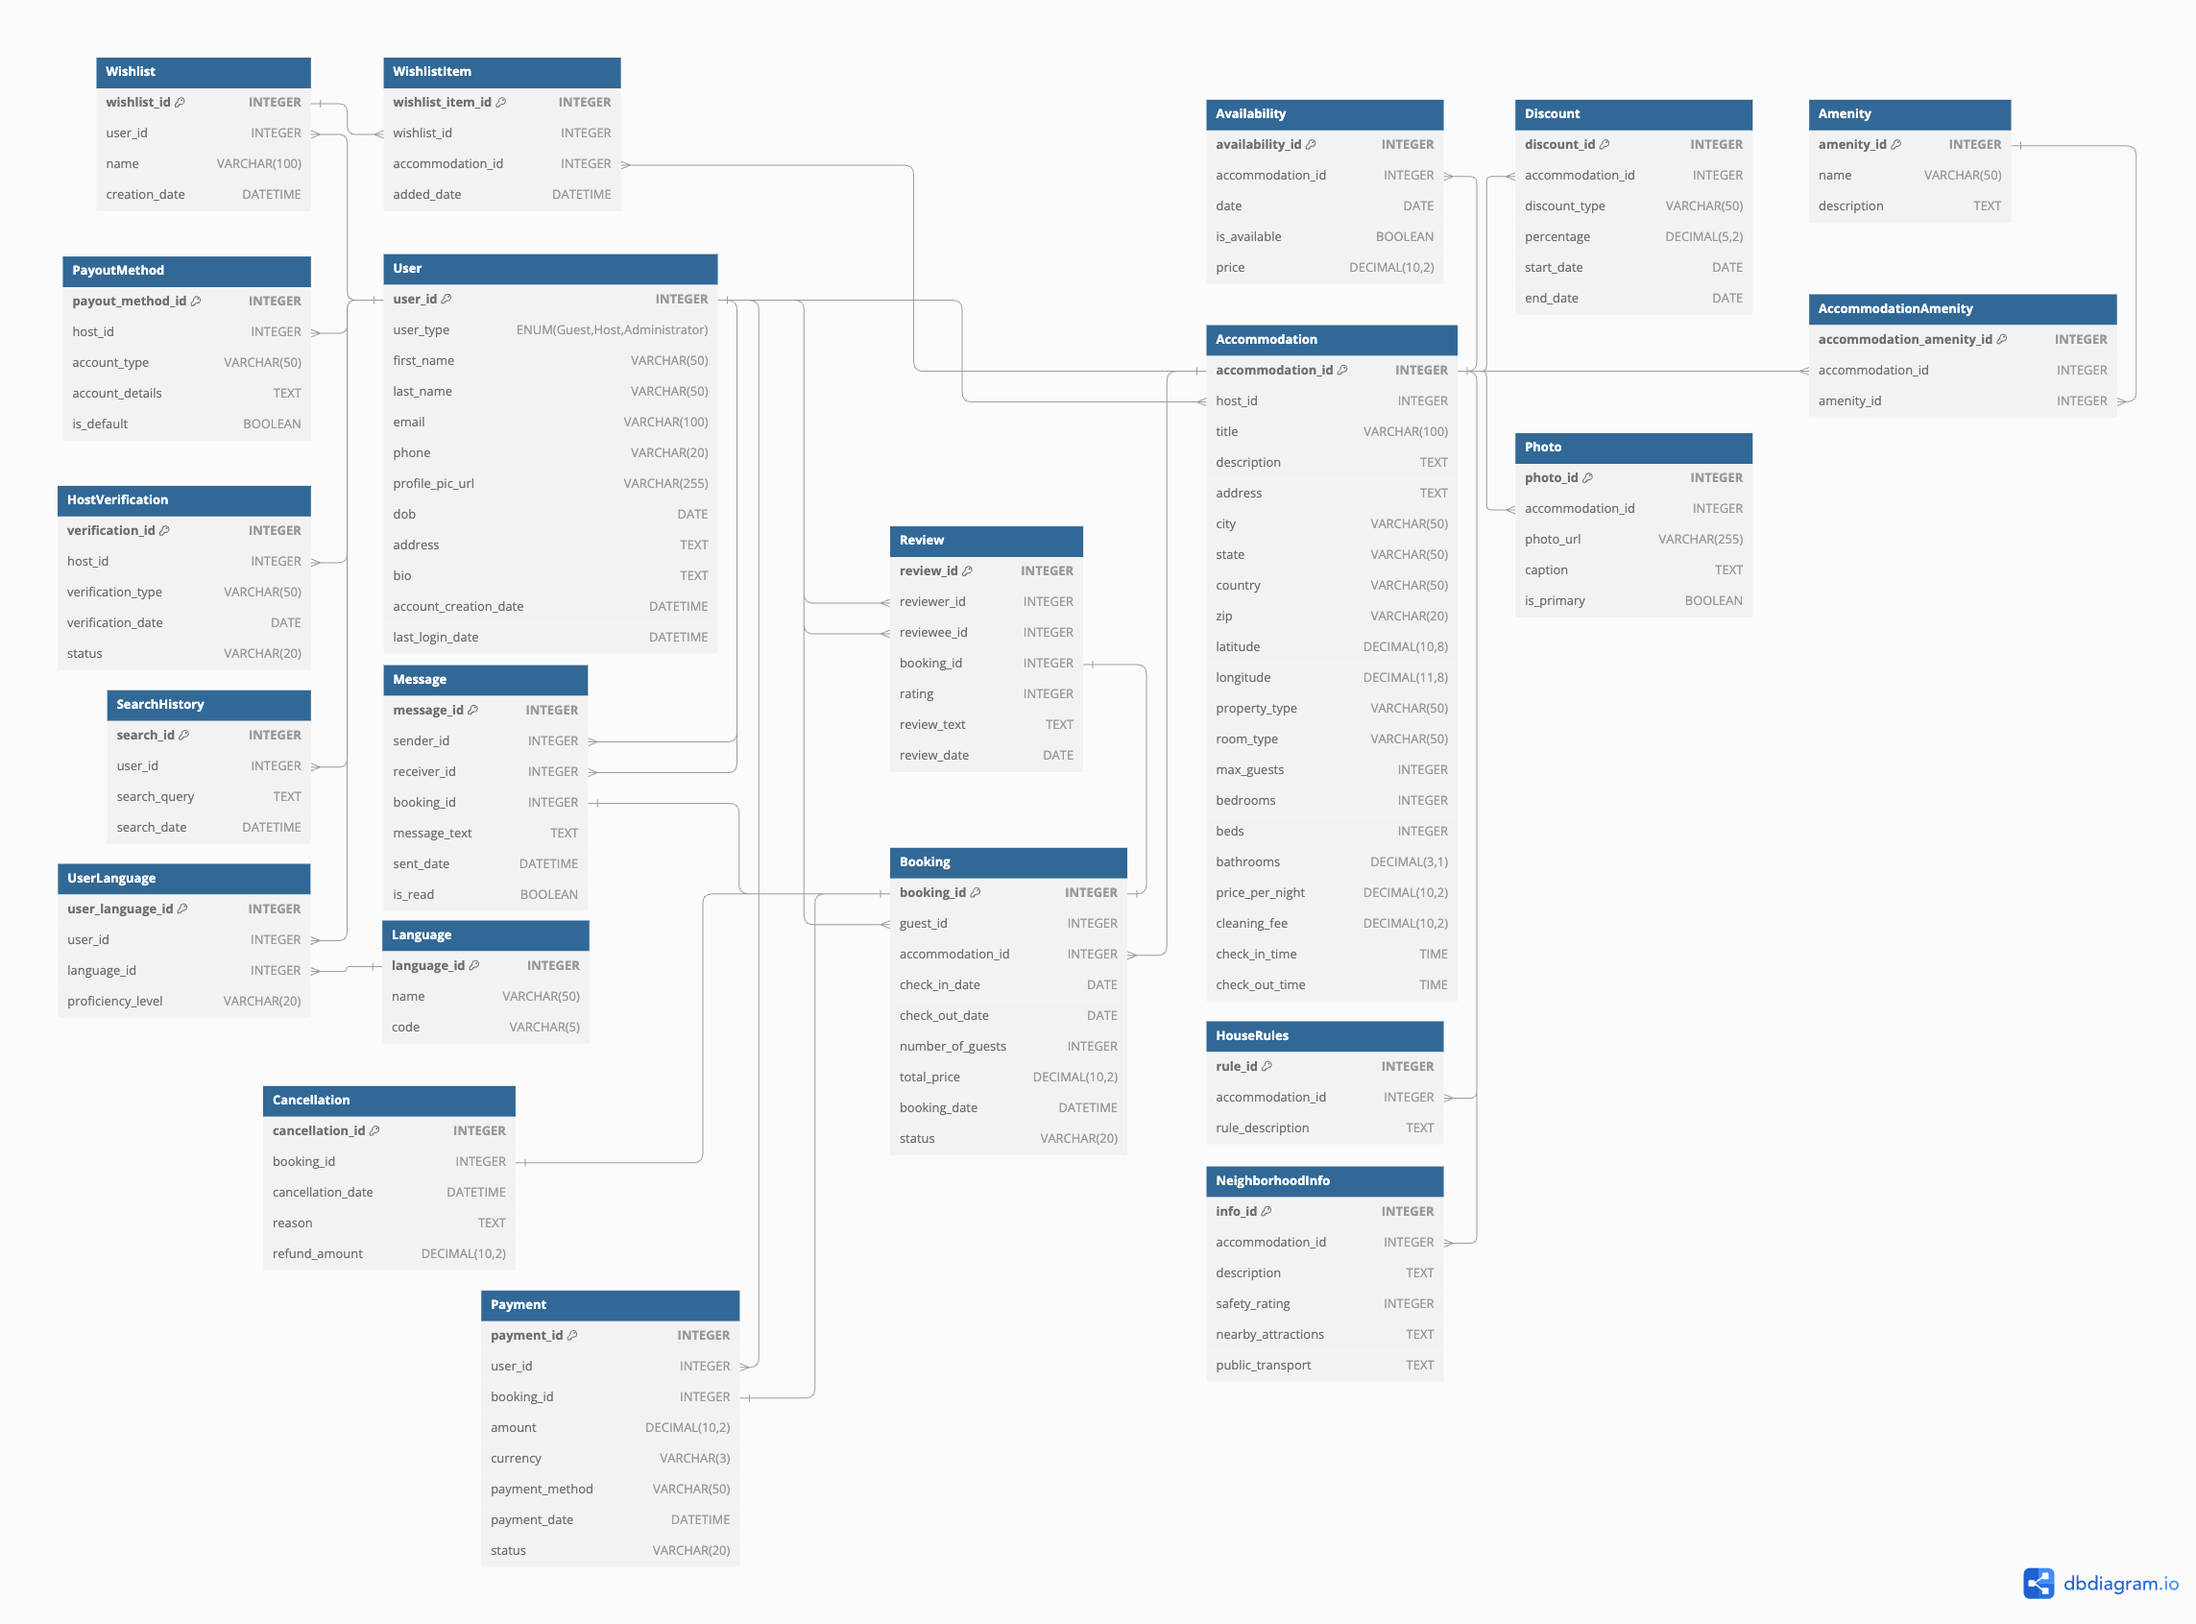
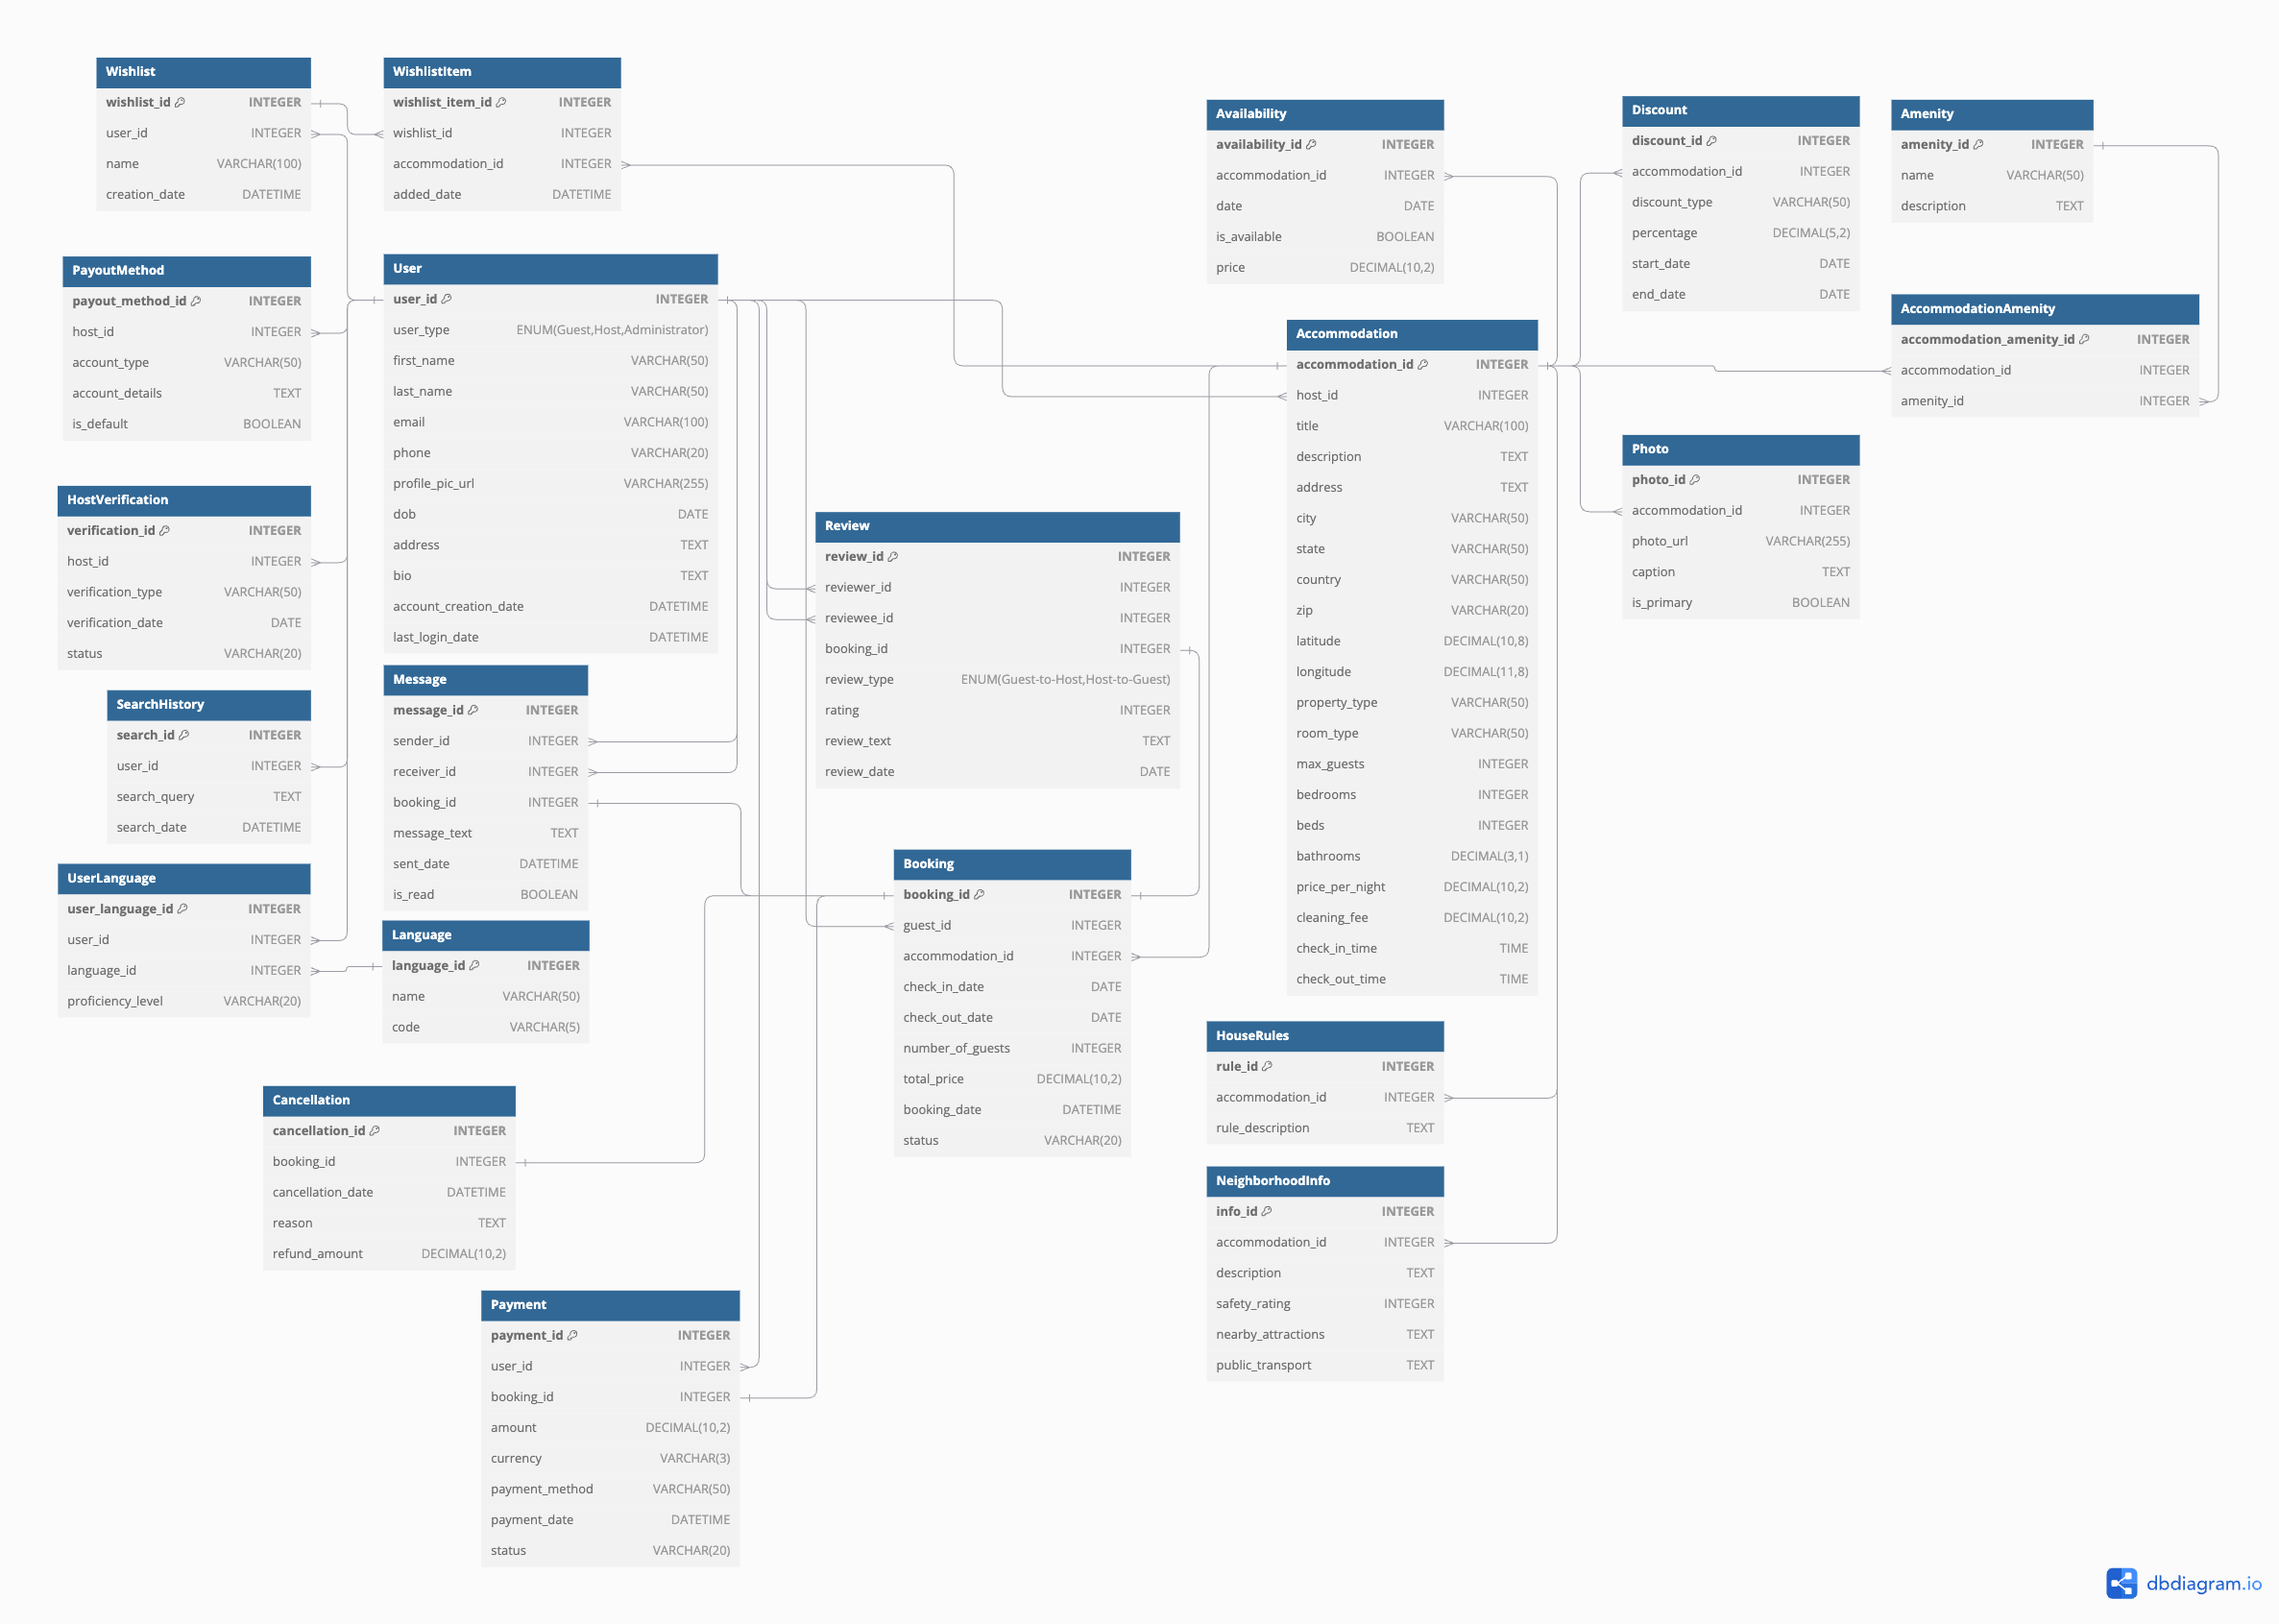
changed review table

diff --git a/README.md b/README.md
@@ -172,6 +172,7 @@ You can also view the interactive diagram [here](https://dbdiagram.io/d/TABLE-66
 | `reviewer_id` (FK)      | INTEGER       | ID of the user writing the review          |
 | `reviewee_id` (FK)      | INTEGER       | ID of the user or accommodation being reviewed |
 | `booking_id` (FK)       | INTEGER       | ID of the associated booking               |
+| `review_type`           | ENUM          | Type of review: 'Guest-to-Host', or 'Host-to-Guest' |
 | `rating`                | INTEGER       | Numerical rating given in the review       |
 | `review_text`           | TEXT          | Text content of the review                 |
 | `review_date`           | DATE          | Date when the review was submitted         |
